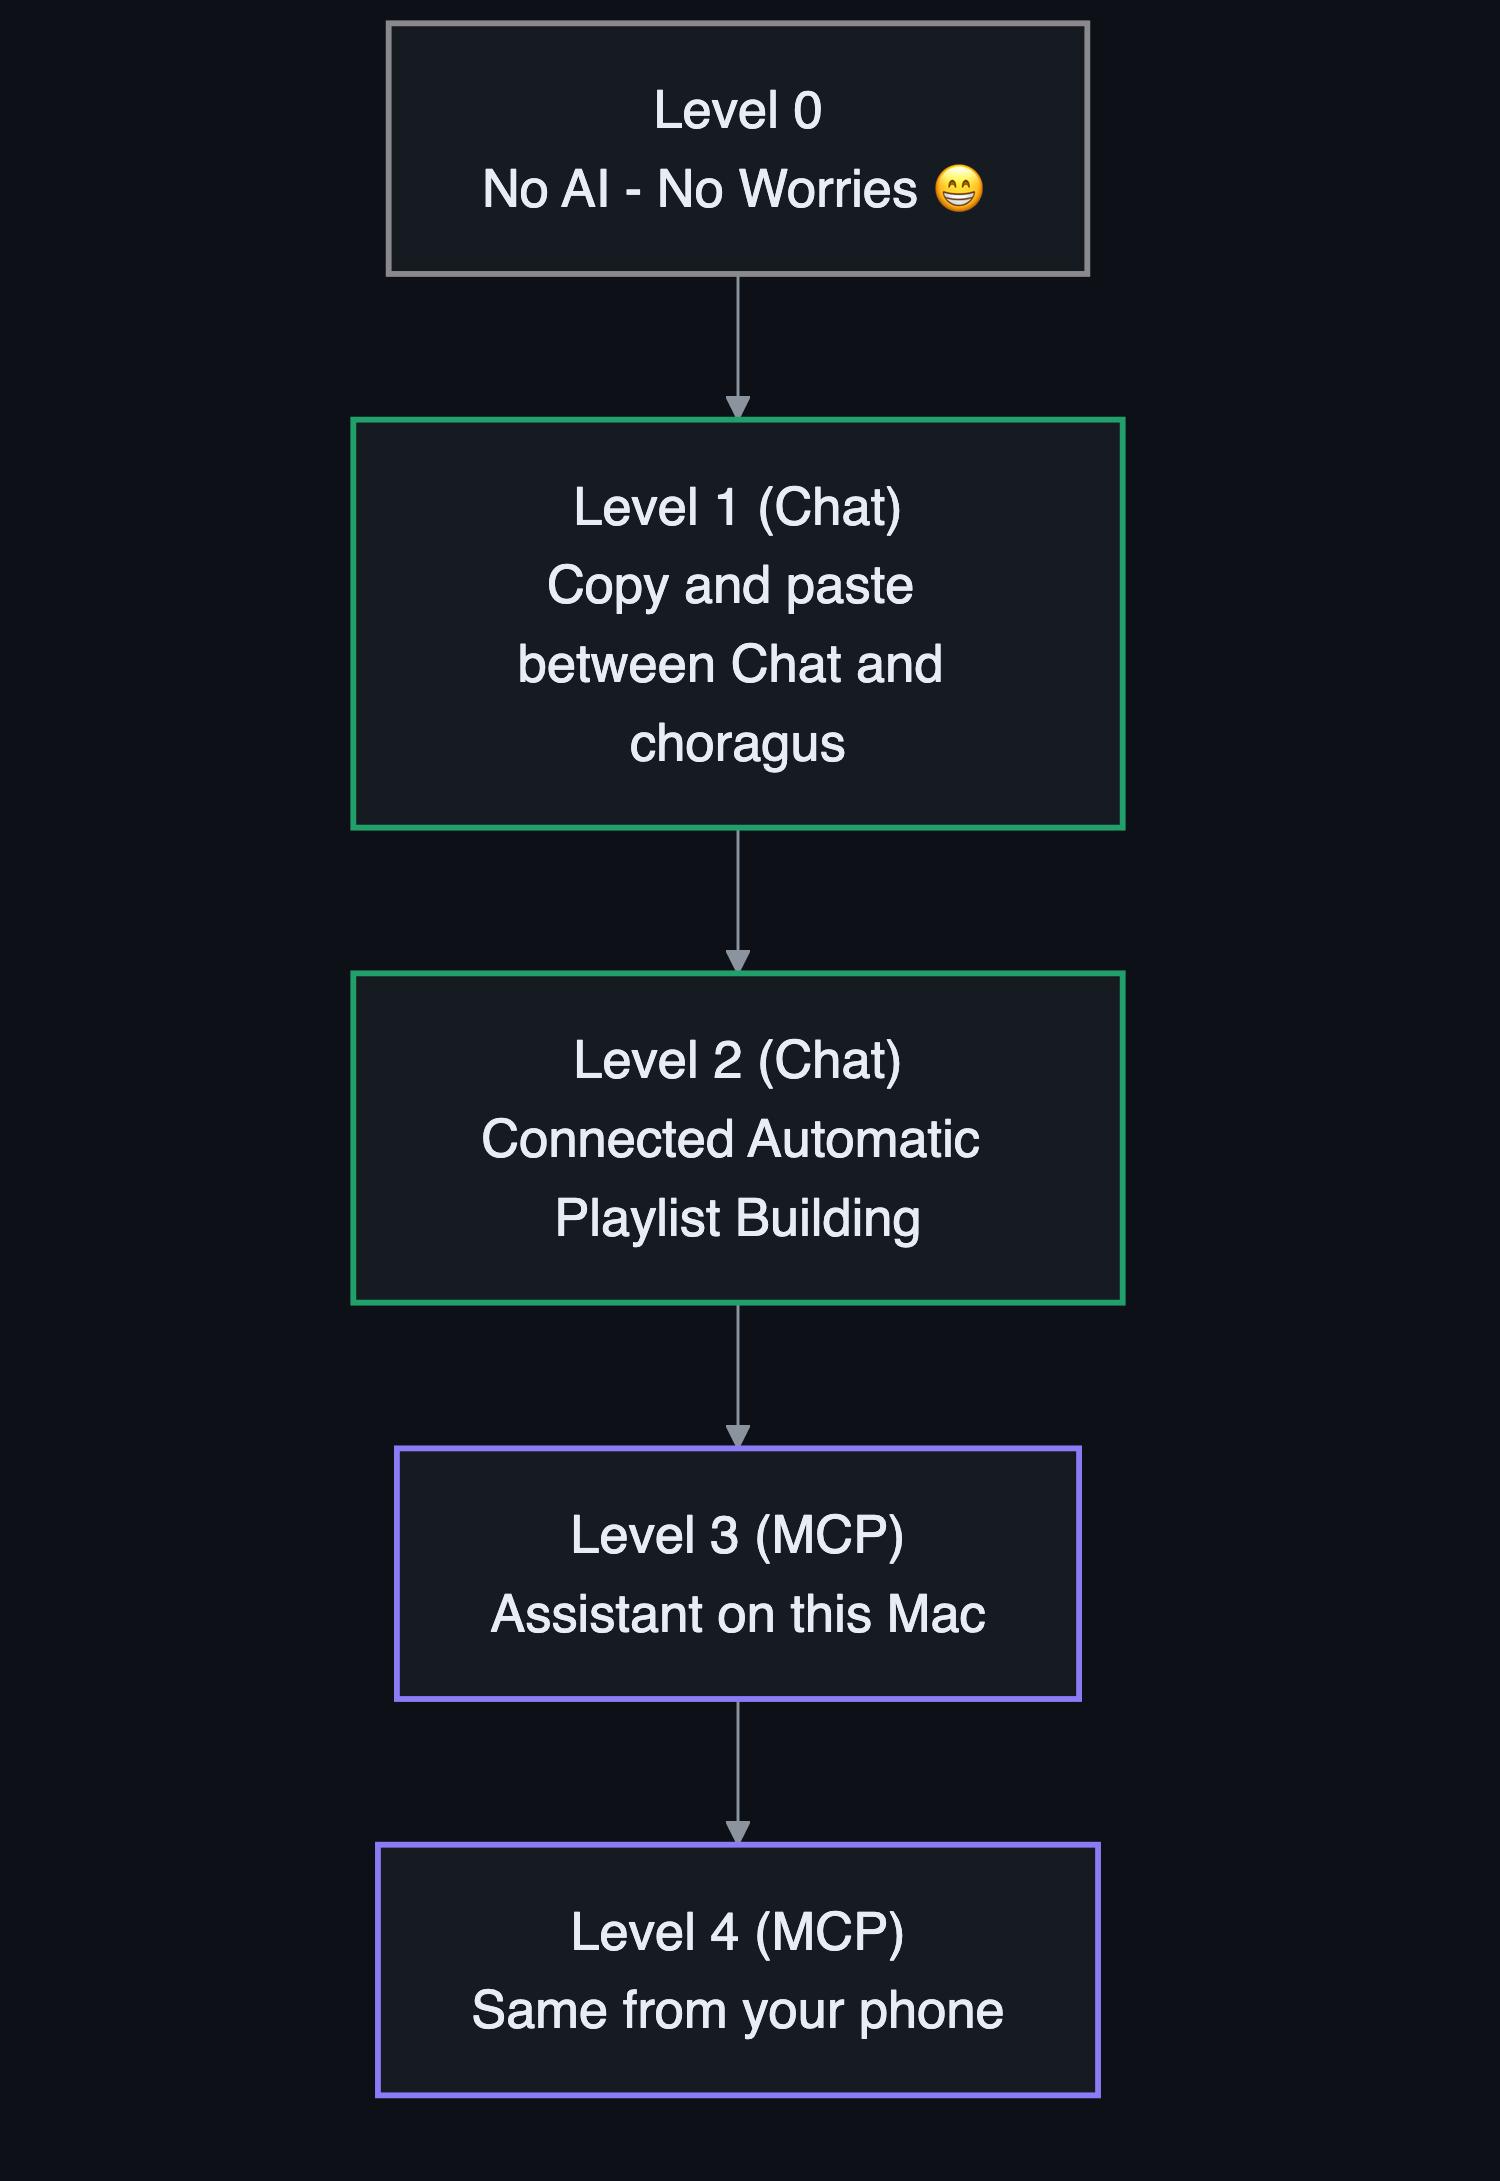
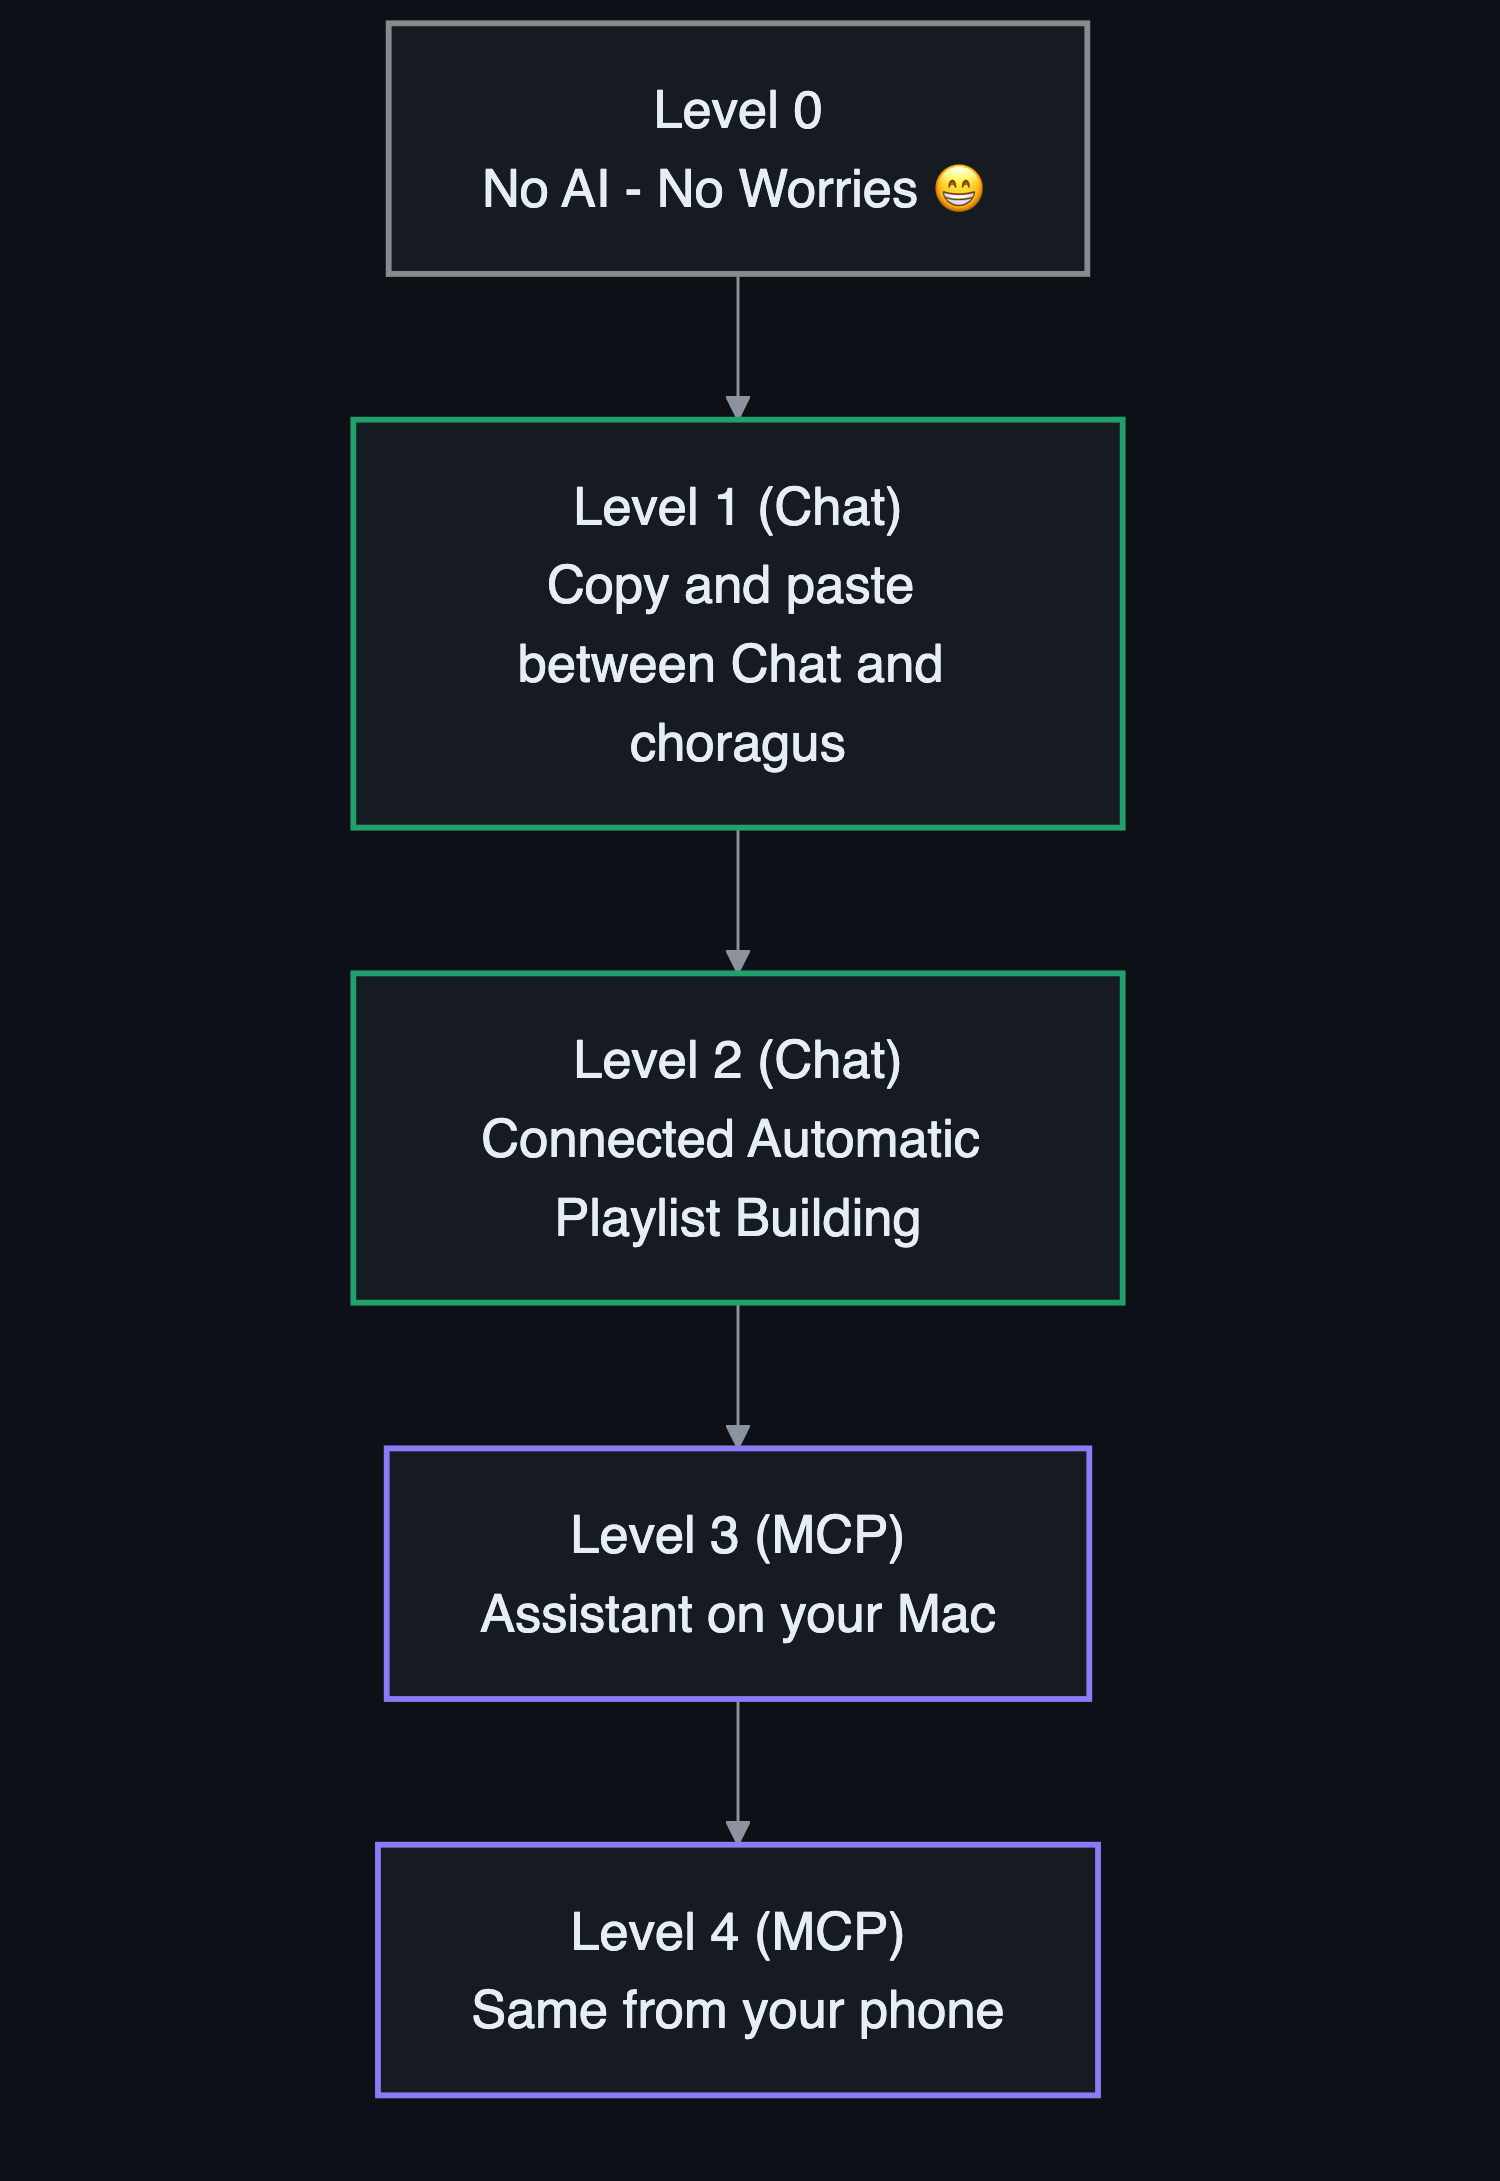
docs: Level 3 reads "Assistant on your Mac" in the AI-levels diagram and the level table

Changed region(s): [[0.3067, 0.7171, 0.6747, 0.7483], [0.7053, 0.6547, 0.736, 0.7795], [0.2453, 0.6547, 0.276, 0.7795]]

diff --git a/docs/AI.md b/docs/AI.md
@@ -9,7 +9,7 @@ On top of that sit four optional levels. Each one is a step further, and each is
 | **0. None** | The whole app | Nothing | — |
 | **1. Copy-and-paste playlists** | Describe a playlist, paste the reply back, Choragus finds the real tracks | Any chat AI you already use, in a browser or another app | [Level 1](#level-1--copy-and-paste-playlists) |
 | **2. Connected playlist building** | The same, without the copying: Choragus asks the model itself | An API key, or a model running on your own machine | [Level 2](#level-2--connected-playlist-building) |
-| **3. An assistant drives Choragus** | Ask an assistant on this Mac to play, group, queue, build, tidy — 116 tools | Claude Desktop, Claude Code, Cursor, Codex or similar | [Level 3](#level-3--an-assistant-drives-choragus-mcp) |
+| **3. An assistant drives Choragus** | Ask an assistant on your Mac to play, group, queue, build, tidy — 116 tools | Claude Desktop, Claude Code, Cursor, Codex or similar | [Level 3](#level-3--an-assistant-drives-choragus-mcp) |
 | **4. The same from your phone** | Those tools from anywhere, with nothing exposed to the internet | Level 3, plus Claude Code Remote Control or Codex | [Level 4](#level-4--the-same-from-your-phone) |
 
 <picture>
